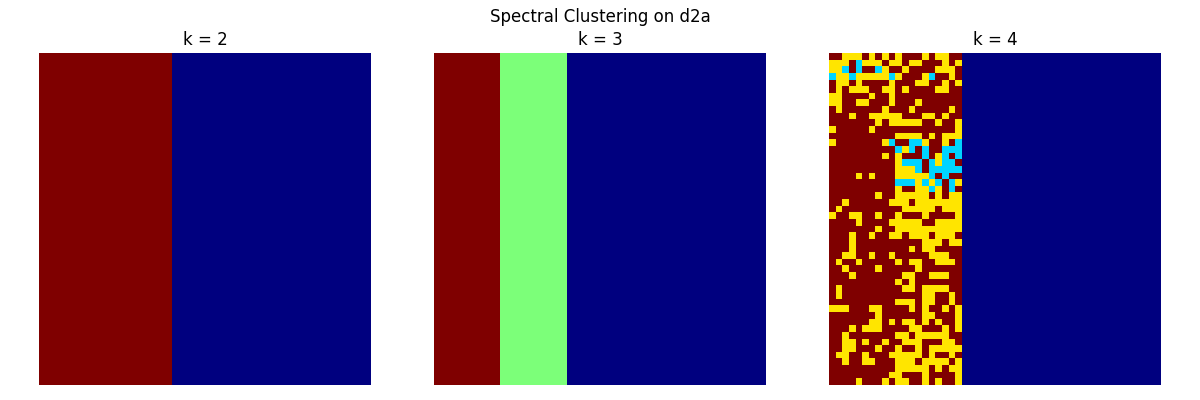
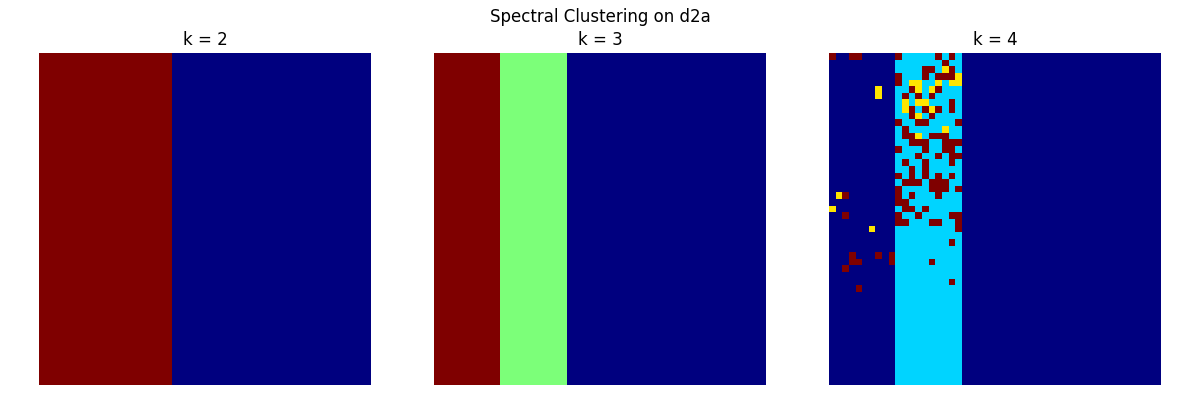
Fixed possible mistake in image graph file

Changed region(s): [[0.6783, 0.12, 0.8017, 0.96]]

diff --git a/Project3/demo1.py b/Project3/demo1.py
@@ -1,3 +1,4 @@
+from matplotlib import pyplot as plt
 import numpy as np
 from scipy.io import loadmat
 from spectral_clustering import spectral_clustering
@@ -8,10 +9,31 @@ def main():
 
     for k in [2, 3, 4]:
         labels = spectral_clustering(d1a, k)
+        n_points = labels.shape[0]
         counts = np.bincount(labels.astype(int))
         print(f"\n=== demo1: k = {k} ===")
         print(" first 20 labels:", labels[:20])
         print(" cluster sizes:", counts)
+
+        num_to_plot = min(20, n_points)
+        plt.figure()
+        plt.scatter(np.arange(num_to_plot), labels[:num_to_plot], s=20)
+        plt.title(f"First {num_to_plot} labels (k={k})")
+        plt.xlabel("Data Point Index")
+        plt.ylabel("Cluster Label")
+        plt.tight_layout()
+        plt.savefig(f"demo1_k{k}_first_labels.png")
+        plt.close()
+
+        plt.figure()
+        plt.bar(np.arange(len(counts)), counts, color='blue', alpha=0.7, width=0.4)
+        plt.title(f"Cluster sizes (k={k})")
+        plt.xlabel("Cluster ID")
+        plt.ylabel("Number of points")
+        plt.xticks(np.arange(len(counts)))
+        plt.tight_layout()
+        plt.savefig(f"demo1_k{k}_cluster_sizes.png")
+        plt.close()
 
 if __name__ == "__main__":
     main()

diff --git a/Project3/image_graph.py b/Project3/image_graph.py
@@ -11,5 +11,5 @@ def image_to_graph(img_array: np.ndarray) -> np.ndarray:
     D_sq = sq_norms + sq_norms.T - 2 * pixels.dot(pixels.T)
     D = np.sqrt(np.maximum(D_sq, 0.0))           # clamp for numerical safety
     
-    affinity_mat = 1.0 / (1.0 + D)
+    affinity_mat = np.exp(-D)
     return affinity_mat
